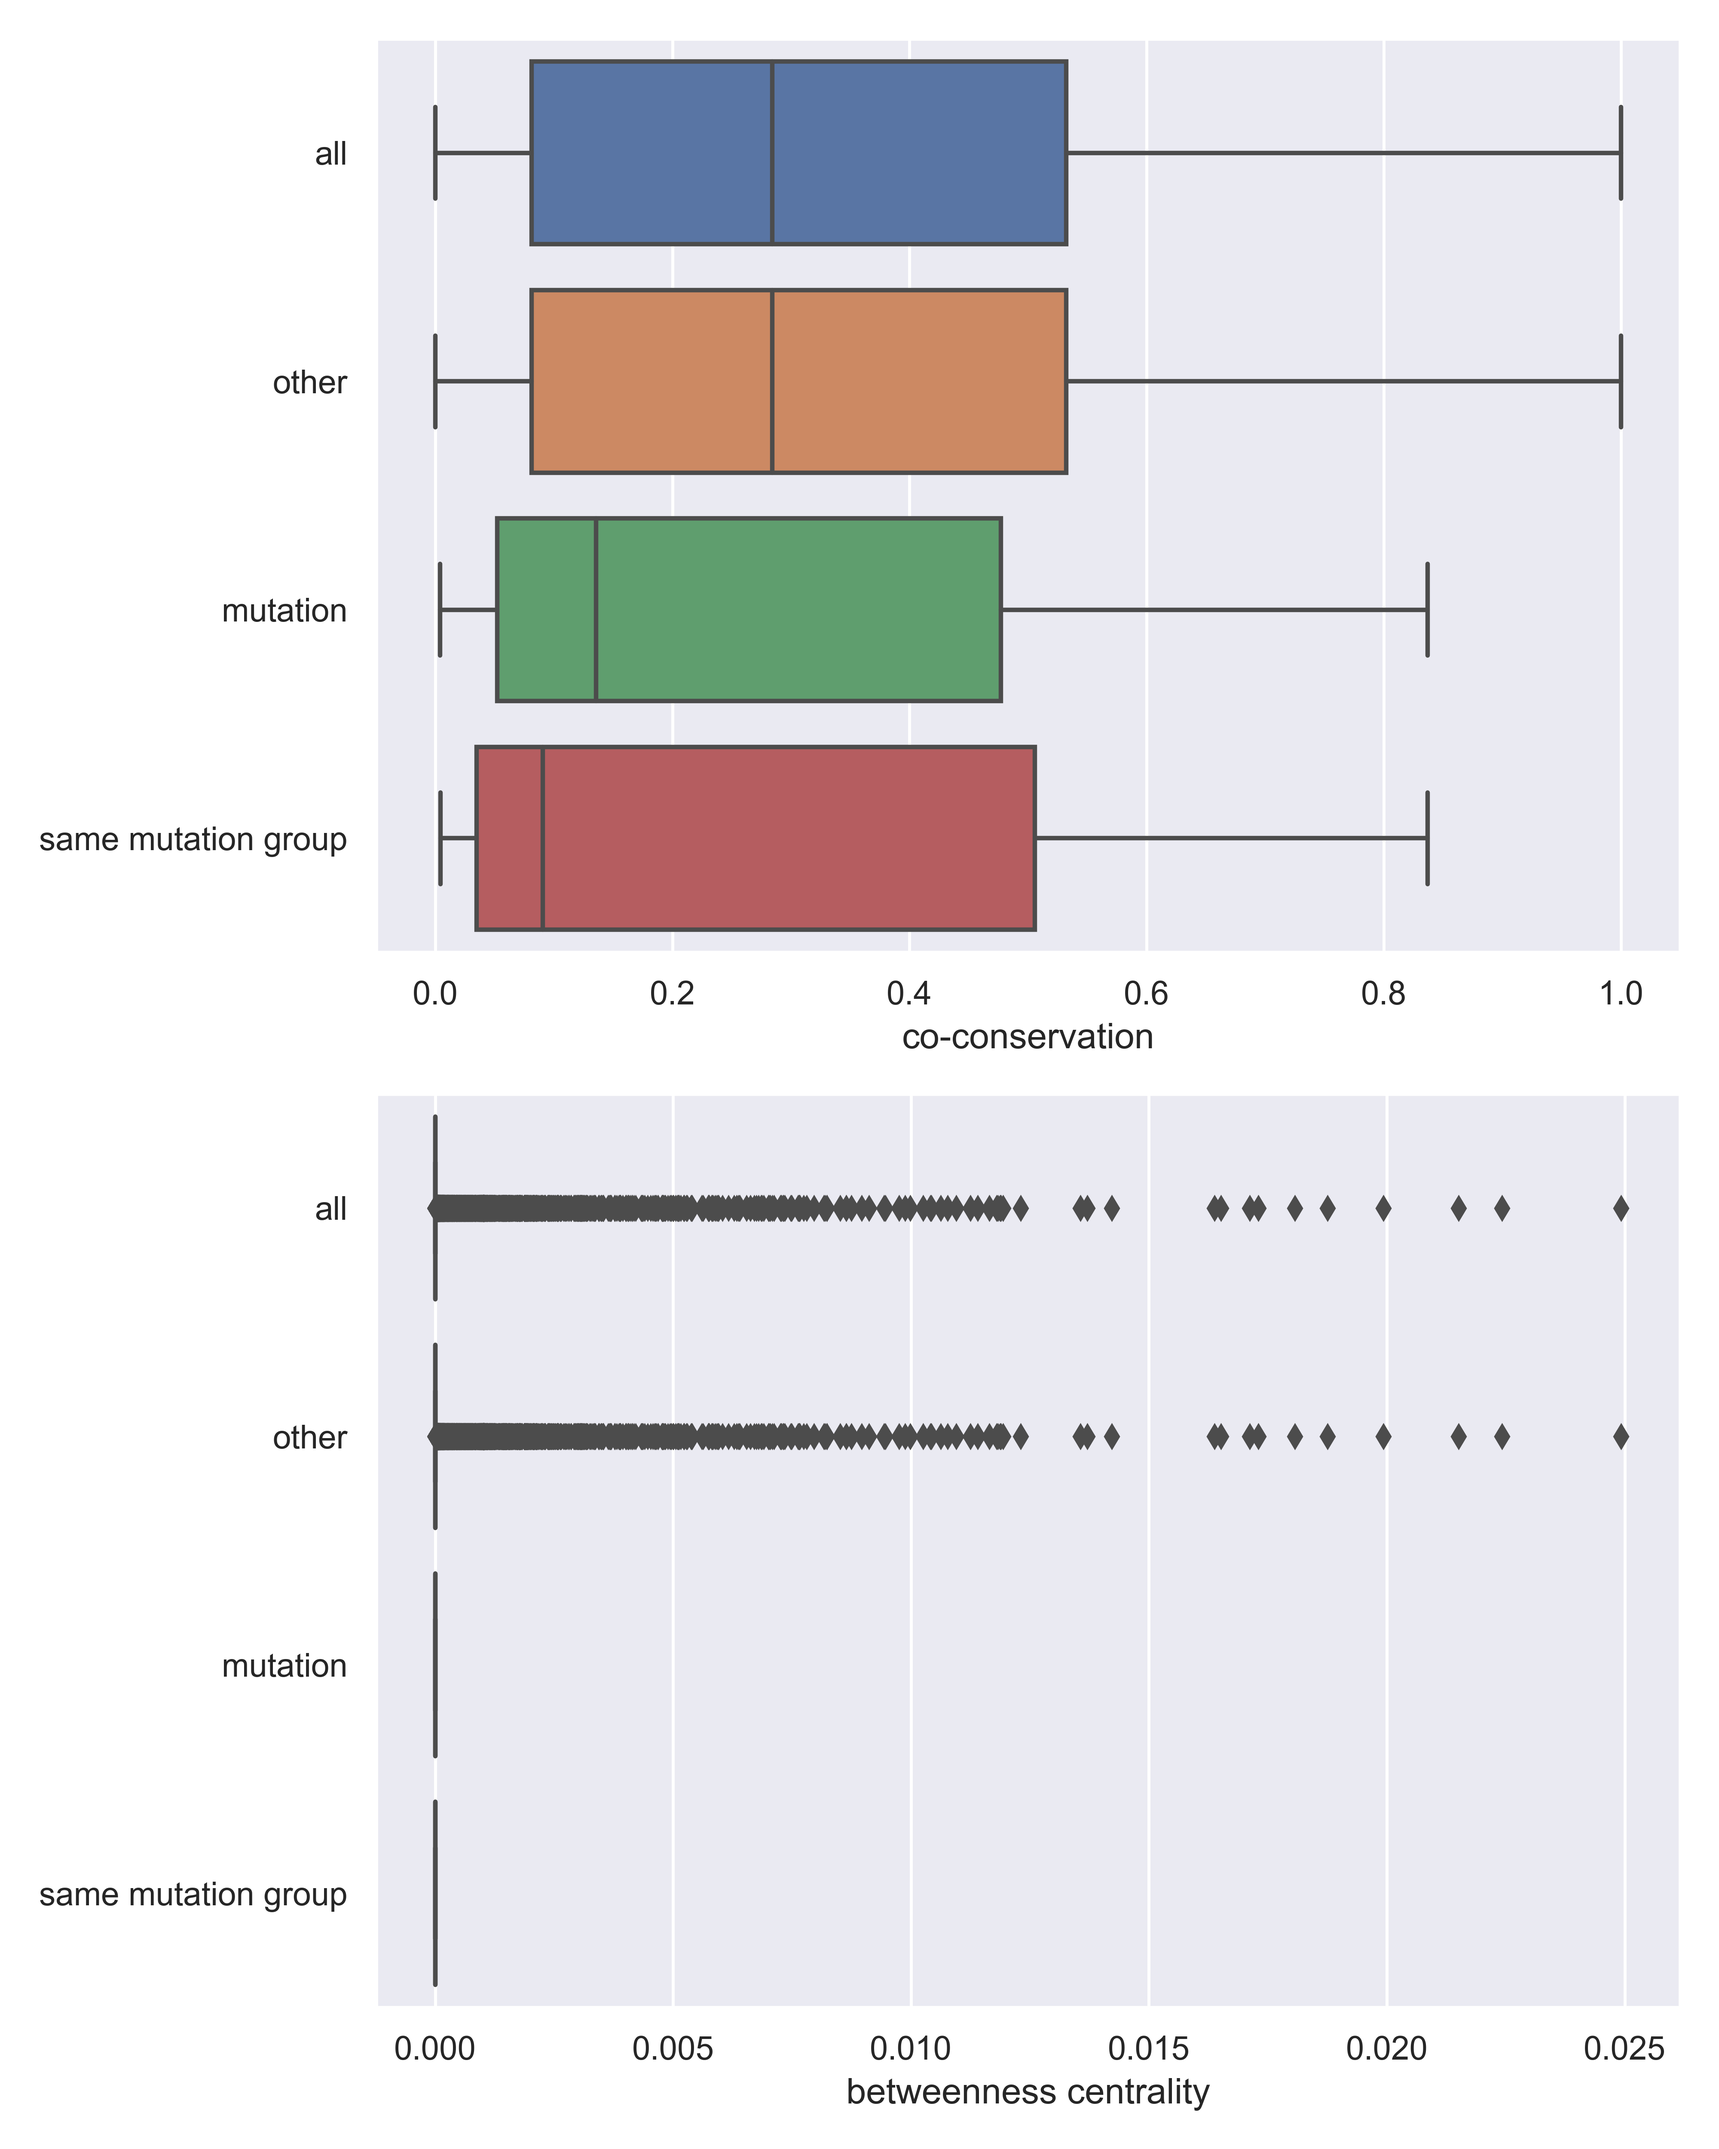
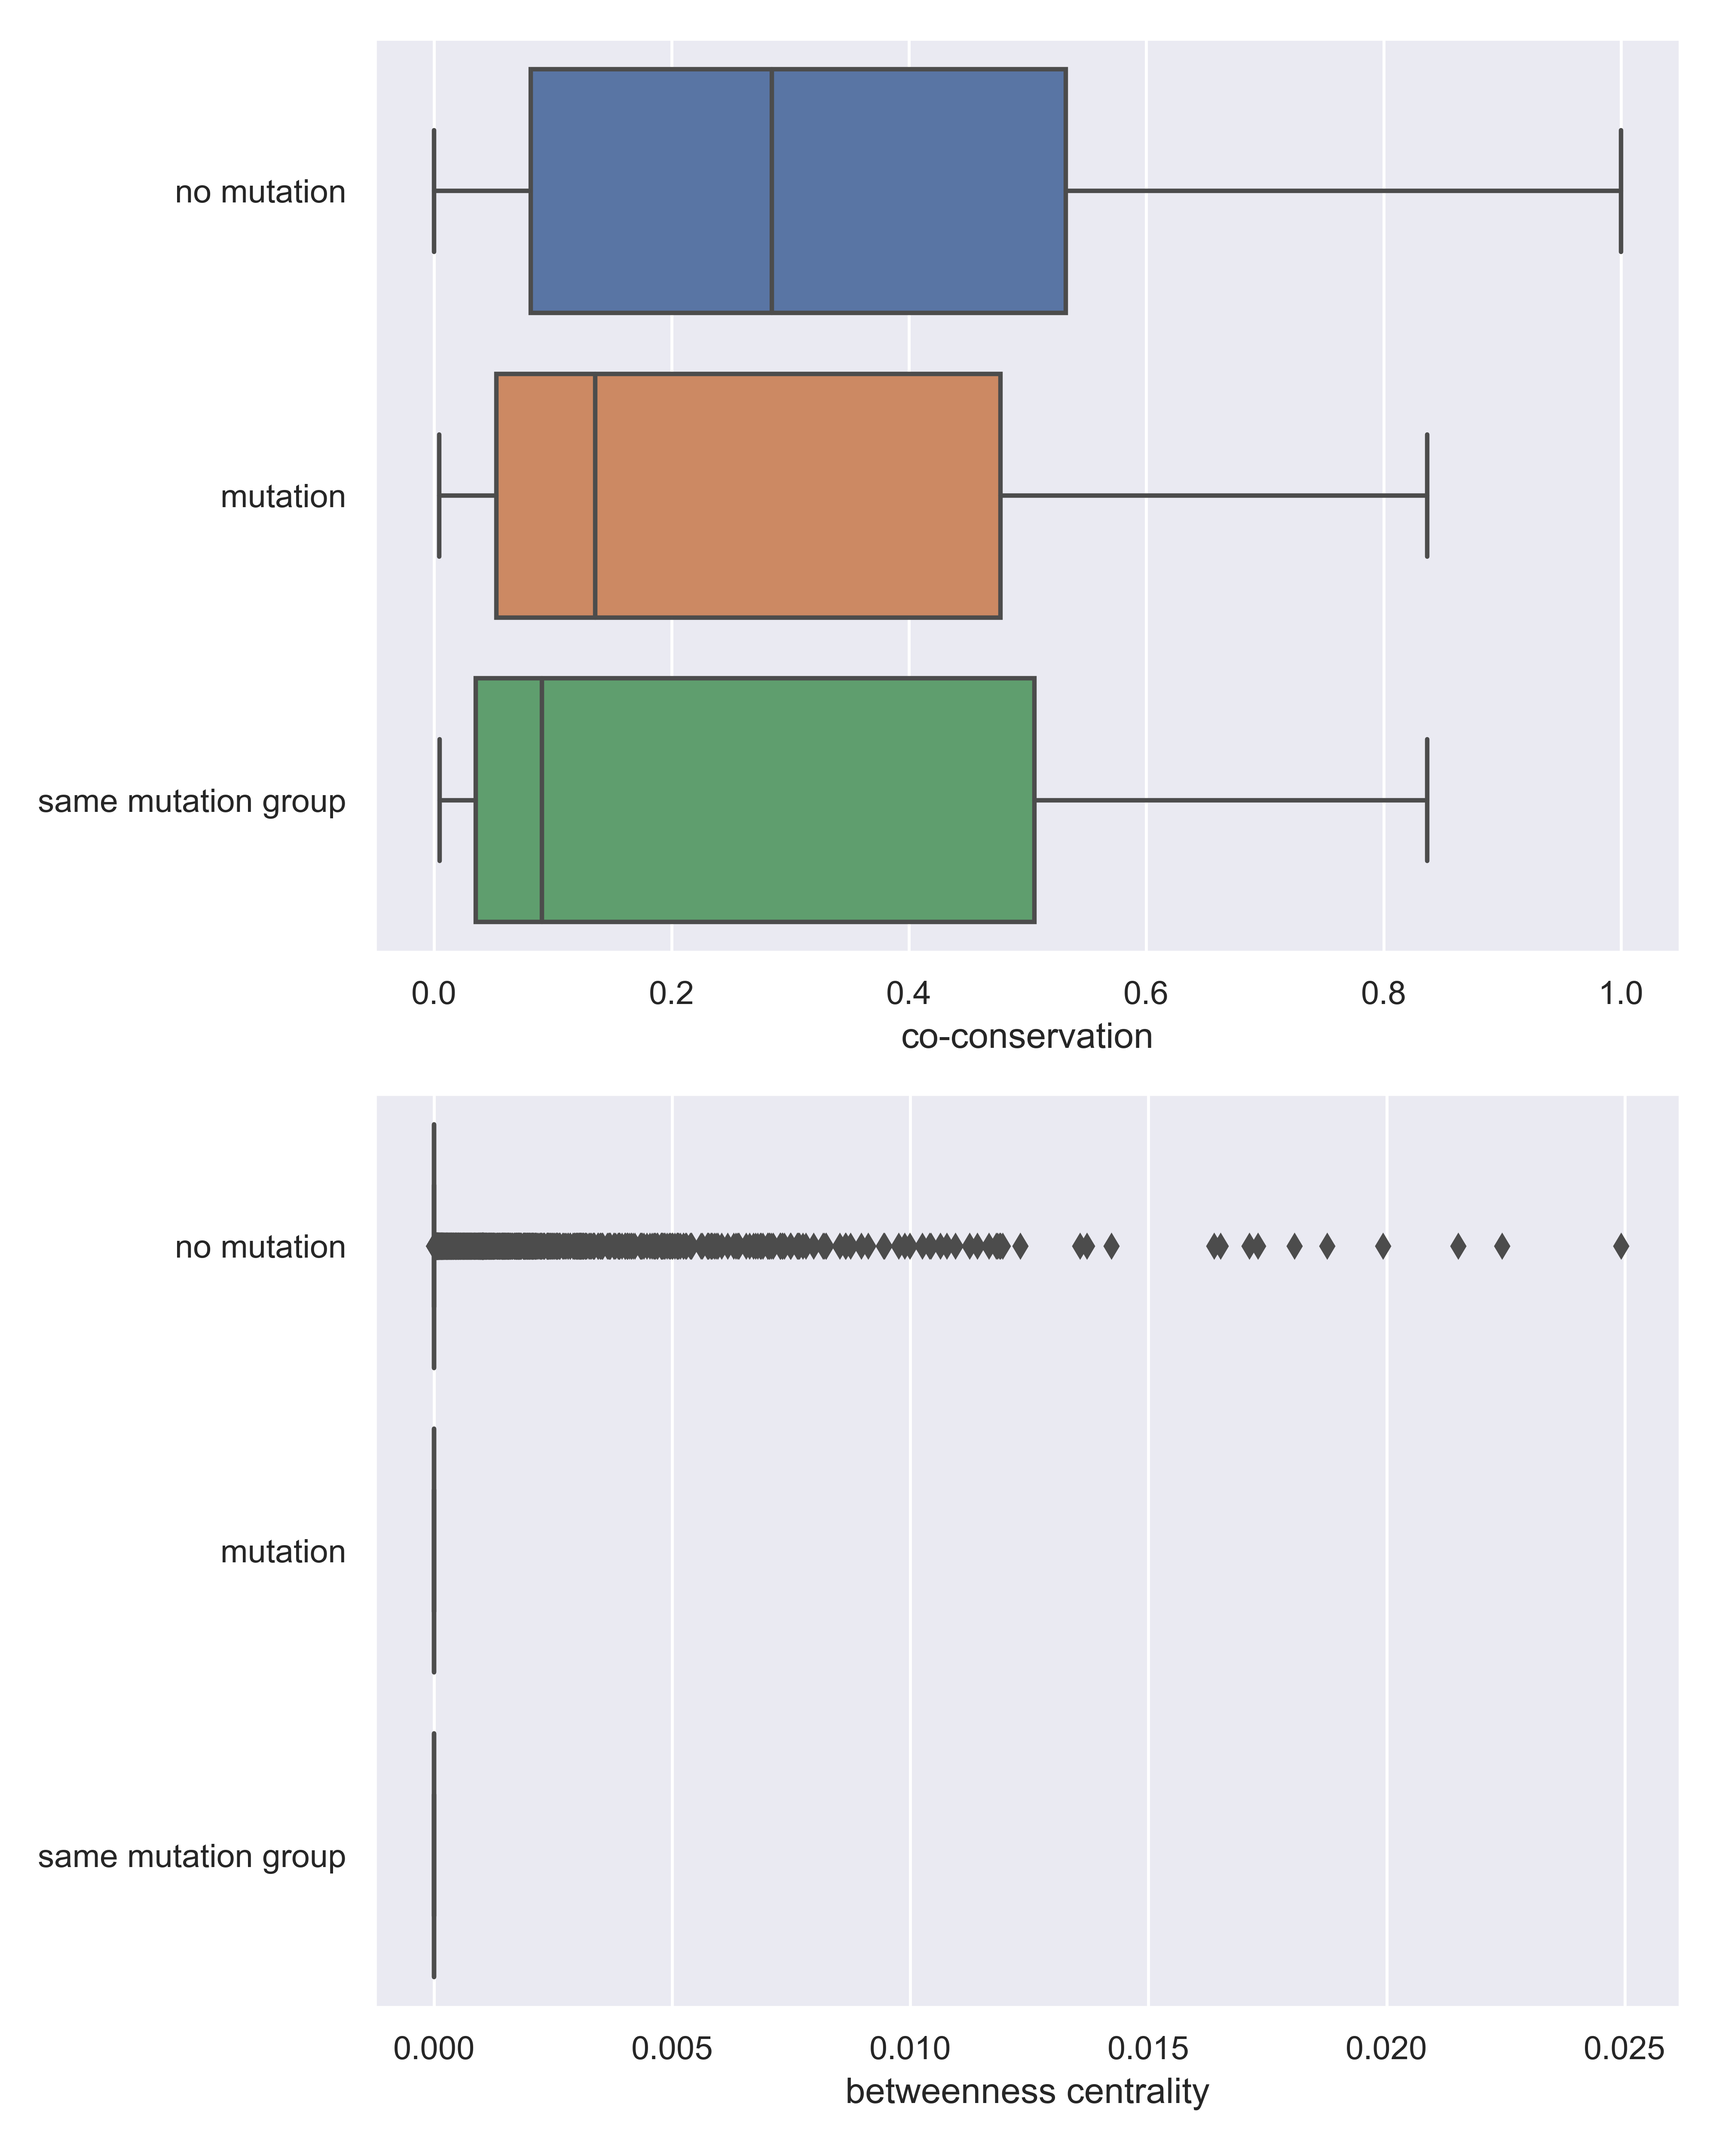
平均最短路径计算完成，一阶段完成。

diff --git a/v2/output_procon_analysis.py b/v2/output_procon_analysis.py
@@ -6,6 +6,7 @@ from Bio import SeqIO
 import networkx as nx
 from networkx.algorithms.centrality import degree_centrality, betweenness_centrality, closeness_centrality, \
     edge_betweenness_centrality
+from networkx.algorithms.shortest_paths import shortest_path_length
 import pandas as pd
 import numpy as np
 import matplotlib.pyplot as plt
@@ -327,28 +328,27 @@ class ProConNetwork:
         node_data["is_mutation"] = node_data.index.map(lambda x: x in aas)
         node_data = node_data[node_data["degree centrality"] > 0]  # 除去孤立节点
 
-        # node_data = node_data[node_data["conservation"] > 0.3]
-
-        def cal_p(data: pd.Series, bo: pd.Series):
+        def cal_p_mannwhitneyu(data: pd.Series, bo: pd.Series):
             x = data[bo].to_list()
             y = data[bo.apply(lambda x: not x)].to_list()
             p = mannwhitneyu(x, y).pvalue
             return p
 
+        # node_data = node_data[node_data["conservation"] > 0.3]
         fig: plt.Figure
         axes: List[plt.Axes]
         fig, axes = plt.subplots(4, 1, figsize=(10, 15))
         sns.boxplot(x=node_data["conservation"], y=node_data["is_mutation"], orient="h", ax=axes[0], )
-        p = cal_p(node_data["conservation"], node_data["is_mutation"])
+        p = cal_p_mannwhitneyu(node_data["conservation"], node_data["is_mutation"])
         axes[0].set_xlabel(f"conservtion (p = {p: .3f})")
         sns.boxplot(x=node_data["degree centrality"], y=node_data["is_mutation"], orient="h", ax=axes[1], )
-        p = cal_p(node_data["degree centrality"], node_data["is_mutation"])
+        p = cal_p_mannwhitneyu(node_data["degree centrality"], node_data["is_mutation"])
         axes[1].set_xlabel(f"degree centrality (p = {p: .3f})")
         sns.boxplot(x=node_data["closeness centrality"], y=node_data["is_mutation"], orient="h", ax=axes[2])
-        p = cal_p(node_data["closeness centrality"], node_data["is_mutation"])
+        p = cal_p_mannwhitneyu(node_data["closeness centrality"], node_data["is_mutation"])
         axes[2].set_xlabel(f"closeness centrality (p = {p: .3f})")
         sns.boxplot(x=node_data["betweenness centrality"], y=node_data["is_mutation"], orient="h", ax=axes[3])
-        p = cal_p(node_data["betweenness centrality"], node_data["is_mutation"])
+        p = cal_p_mannwhitneyu(node_data["betweenness centrality"], node_data["is_mutation"])
         axes[3].set_xlabel(f"betweenness centrality (p = {p: .3f})")
         plt.show()
         fig.savefig(os.path.join(self.data_dir, "boxplot.png"), dpi=500)
@@ -372,6 +372,12 @@ class ProConNetwork:
             edge_in_same_group += list(permutations(group, 2))
         edge_in_same_group = list(set(edge_in_same_group))  # 去重
 
+        def cal_p_mannwhitneyu(data: pd.Series, x: pd.Series, y: pd.Series):
+            x = data.loc[x].to_list()
+            y = data.loc[y].to_list()
+            p = mannwhitneyu(x, y).pvalue
+            return p
+
         # 初始化 图片
         fig: plt.Figure
         axes: List[plt.Axes]
@@ -383,7 +389,8 @@ class ProConNetwork:
         for u, v, weight in self.G.edges.data("weight"):
 
             # 所有的
-            rows.append([u, v, weight, "all"])
+            # rows.append([u, v, weight, "all"])
+
             # 其他三种
             # 先小范围
             if (u, v) in edge_in_same_group:
@@ -392,19 +399,26 @@ class ProConNetwork:
             if (u, v) in edge_in_different_group:
                 rows.append([u, v, weight, "mutation"])
             else:
-                rows.append([u, v, weight, "other"])
+                rows.append([u, v, weight, "no mutation"])
         co_conservation = pd.DataFrame(rows, columns=columns)
         log.debug("co_conservation.label.value_counts() = %s", co_conservation.label.value_counts())
-        sns.boxplot(data=co_conservation, x="co-conservation", y="label", orient="h", ax=axes[0])
+        sns.boxplot(data=co_conservation, x="co-conservation", y="label", orient="h", ax=axes[0], )
         axes[0].set_xlabel("co-conservation")
         axes[0].set_ylabel("")
+        log.debug(
+            "p value of co-conservation = %.4f",
+            cal_p_mannwhitneyu(
+                co_conservation["co-conservation"],
+                co_conservation["label"] == "mutation",
+                co_conservation["label"] == "no mutation")
+        )
 
         # 边的 betweenness
         rows = []
         columns = ["u", "v", "co-conservation", "label"]
         for (u, v), weight in self.edge_betweenness_c.items():
             # 所有的
-            rows.append([u, v, weight, "all"])
+            # rows.append([u, v, weight, "all"])
             # 其他三种
             # 先小范围
             if (u, v) in edge_in_same_group:
@@ -413,14 +427,20 @@ class ProConNetwork:
             if (u, v) in edge_in_different_group:
                 rows.append([u, v, weight, "mutation"])
             else:
-                rows.append([u, v, weight, "other"])
+                rows.append([u, v, weight, "no mutation"])
         co_conservation = pd.DataFrame(rows, columns=columns)
         log.debug("co_conservation.label.value_counts() = %s", co_conservation.label.value_counts())
         sns.boxplot(data=co_conservation, x="co-conservation", y="label", orient="h", ax=axes[1])
         axes[1].set_xlabel("betweenness centrality")
         axes[1].set_ylabel("")
 
-
+        log.debug(
+            "p value of co-conservation = %.4f",
+            cal_p_mannwhitneyu(
+                co_conservation["co-conservation"],
+                co_conservation["label"] == "mutation",
+                co_conservation["label"] == "no mutation")
+        )
         # 绘图
         fig.tight_layout()
         fig.show()
@@ -481,24 +501,80 @@ class ProConNetwork:
                 conservation = 0
                 norm_conservation = 0
 
+            # 中心性
+            # self.closeness_c[]
+            # self.betweenness_c[]
+            # self.closeness_c[]
+
             data.append(
                 {"aa": aa, "degree": degree, "weighted degree": w_degree, "average weighted degree": avg_w_degrees,
-                 "conservation": conservation, "normalized conservation": norm_conservation})
+                 "conservation": conservation, "normalized conservation": norm_conservation,
+                 "closeness centrality": self.closeness_c[aa],
+                 "betweenness centrality": self.betweenness_c[aa],
+                 "degree centrality": self.degree_c[aa],
+                 })
 
         data = pd.DataFrame(data)
         data = data.set_index("aa", drop=False).sort_index()
         data.to_csv(os.path.join(self.data_dir, "aas_info.csv"))
+
+
+    def calculate_average_shortest_path_length(self, aas):
+        """平均最短路径长度"""
+        # data -> aa : [变异，非变异]
+        data = {}
+        for aa in aas:
+            mutation_len = []  # 与其他变异相连的路径
+            other_len = []  # 与其他相连的路径
+            path_len: dict = shortest_path_length(self.G, source=aa)
+            for target, length in path_len.items():
+                if target in aas:
+                    mutation_len.append(length)
+                else:
+                    other_len.append(length)
+            average_mutation_len = 0 if len(mutation_len) == 0 else np.mean(mutation_len)
+            average_other_len = 0 if len(other_len) == 0 else np.mean(other_len)
+            data[aa] = {
+                "mutation": average_mutation_len,
+                "other": average_other_len
+            }
+        data = pd.DataFrame(data).T
+        log.debug("data = %s", data.head())
+        p_value = mannwhitneyu(data.iloc[:, 0], data.iloc[:, 1]).pvalue
+        data.to_csv(os.path.join(self.data_dir, "mutations' average shortest path length.csv"))
+        data.index.name = "position"
+        plt_data = data.stack().reset_index()
+        plt_data.columns = ["position", "type", "length"]
+        plt_data = plt_data.sort_values("position")  # 排序
+        log.debug("plt_data = %s", plt_data.head())
+
+        fig: plt.Figure
+        axes: List[plt.Axes]
+        fig, axes = plt.subplots(1, 2, figsize=(10, 5))
+        sns.barplot(data=plt_data, x="position", y="length", hue="type", ax=axes[0], )
+        sns.boxplot(data=plt_data, x="type", y="length", ax=axes[1])
+        # 调整图像
+        [txt.set_rotation(90) for txt in axes[0].get_xticklabels()]  # 字体旋转
+        axes[0].legend()
+        axes[0].set_xlabel("")
+        axes[1].set_xlabel(f"p = {p_value:.3f}")
+        # fig.suptitle("average shortest path length", va="bottom")
+        fig.tight_layout()
+        # 查看并保存图片
+        fig.show()
+        fig.savefig(os.path.join(self.data_dir, "average shortest length.png"), dpi=300)
 
     def analysisG(self, aas: list, groups):
         aas = [self._aa2position(aa) for aa in aas if aa]
         aas = list(set(aas))
         log.debug("aas = %s", aas)
 
-        self._collect_mutation_info(aas)  # 收集变异位点的信息
-        self._plot_procon_distribution()  # 分数分布图
-        self._plot_degree_distribuition(aas)  # 度分布
-        self._plot_node_box(aas, )  # 箱线图：中心性 + 保守性
-        self._plot_edge_box(aas, groups)  # 共保守性
+        # self._collect_mutation_info(aas)  # 收集变异位点的信息
+        # self._plot_procon_distribution()  # 分数分布图
+        # self._plot_degree_distribuition(aas)  # 度分布
+        # self._plot_node_box(aas, )  # 箱线图：中心性 + 保守性
+        # self._plot_edge_box(aas, groups)  # 共保守性
+        self.calculate_average_shortest_path_length(aas)
 
 
 if __name__ == '__main__':
